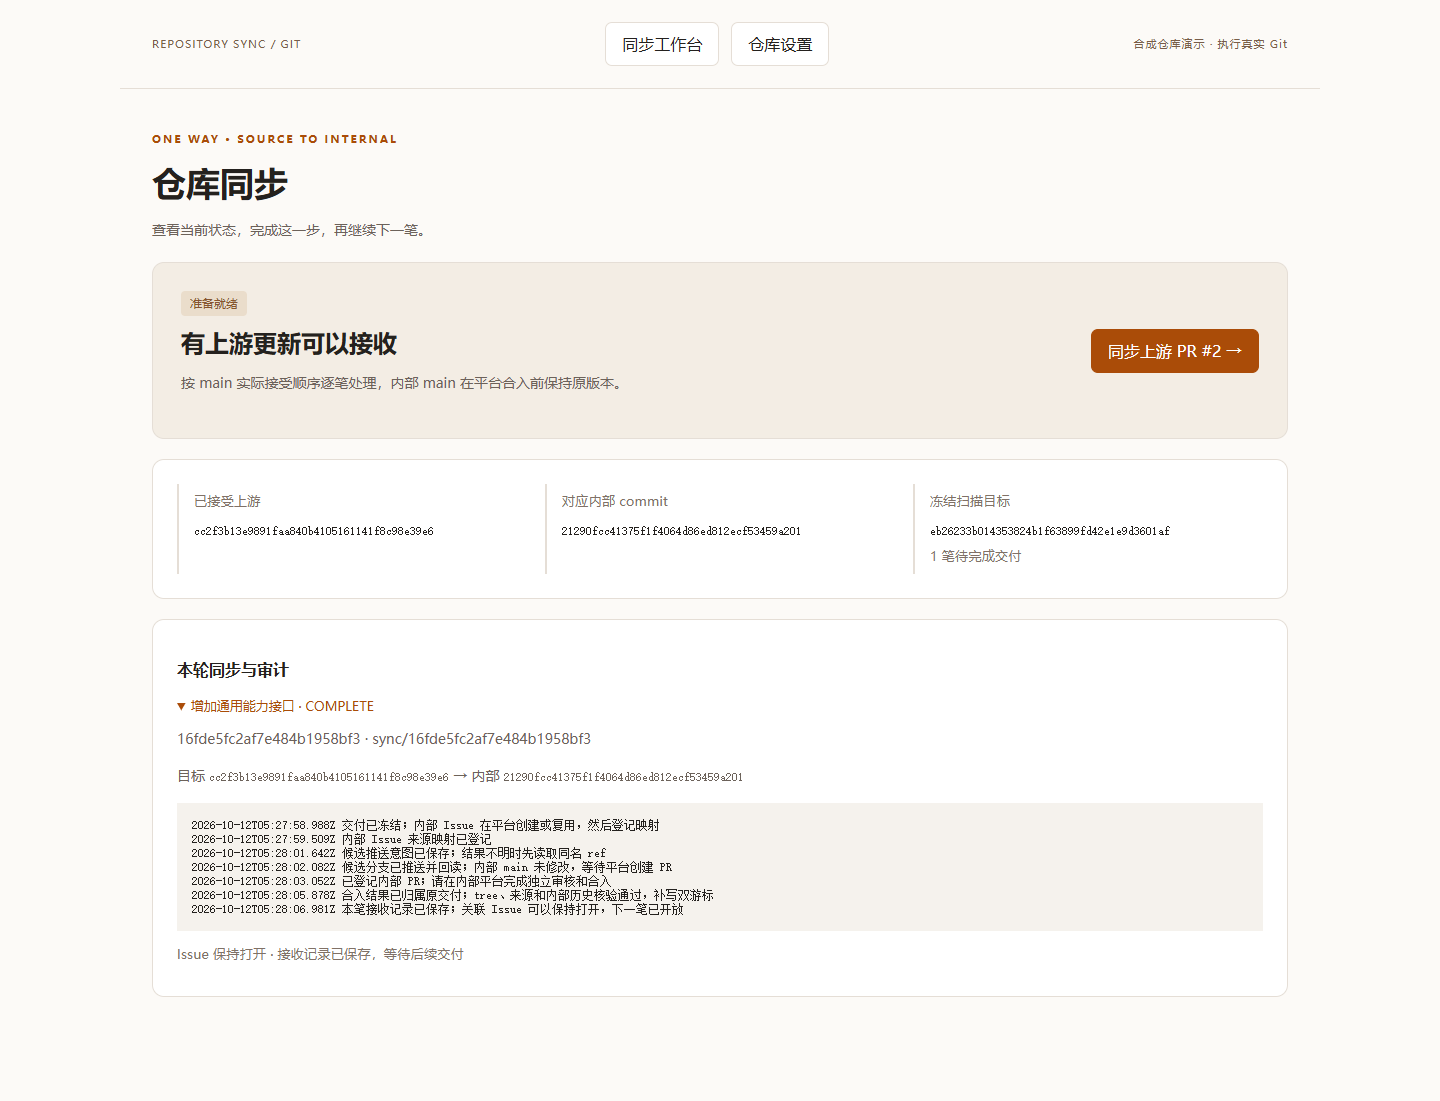
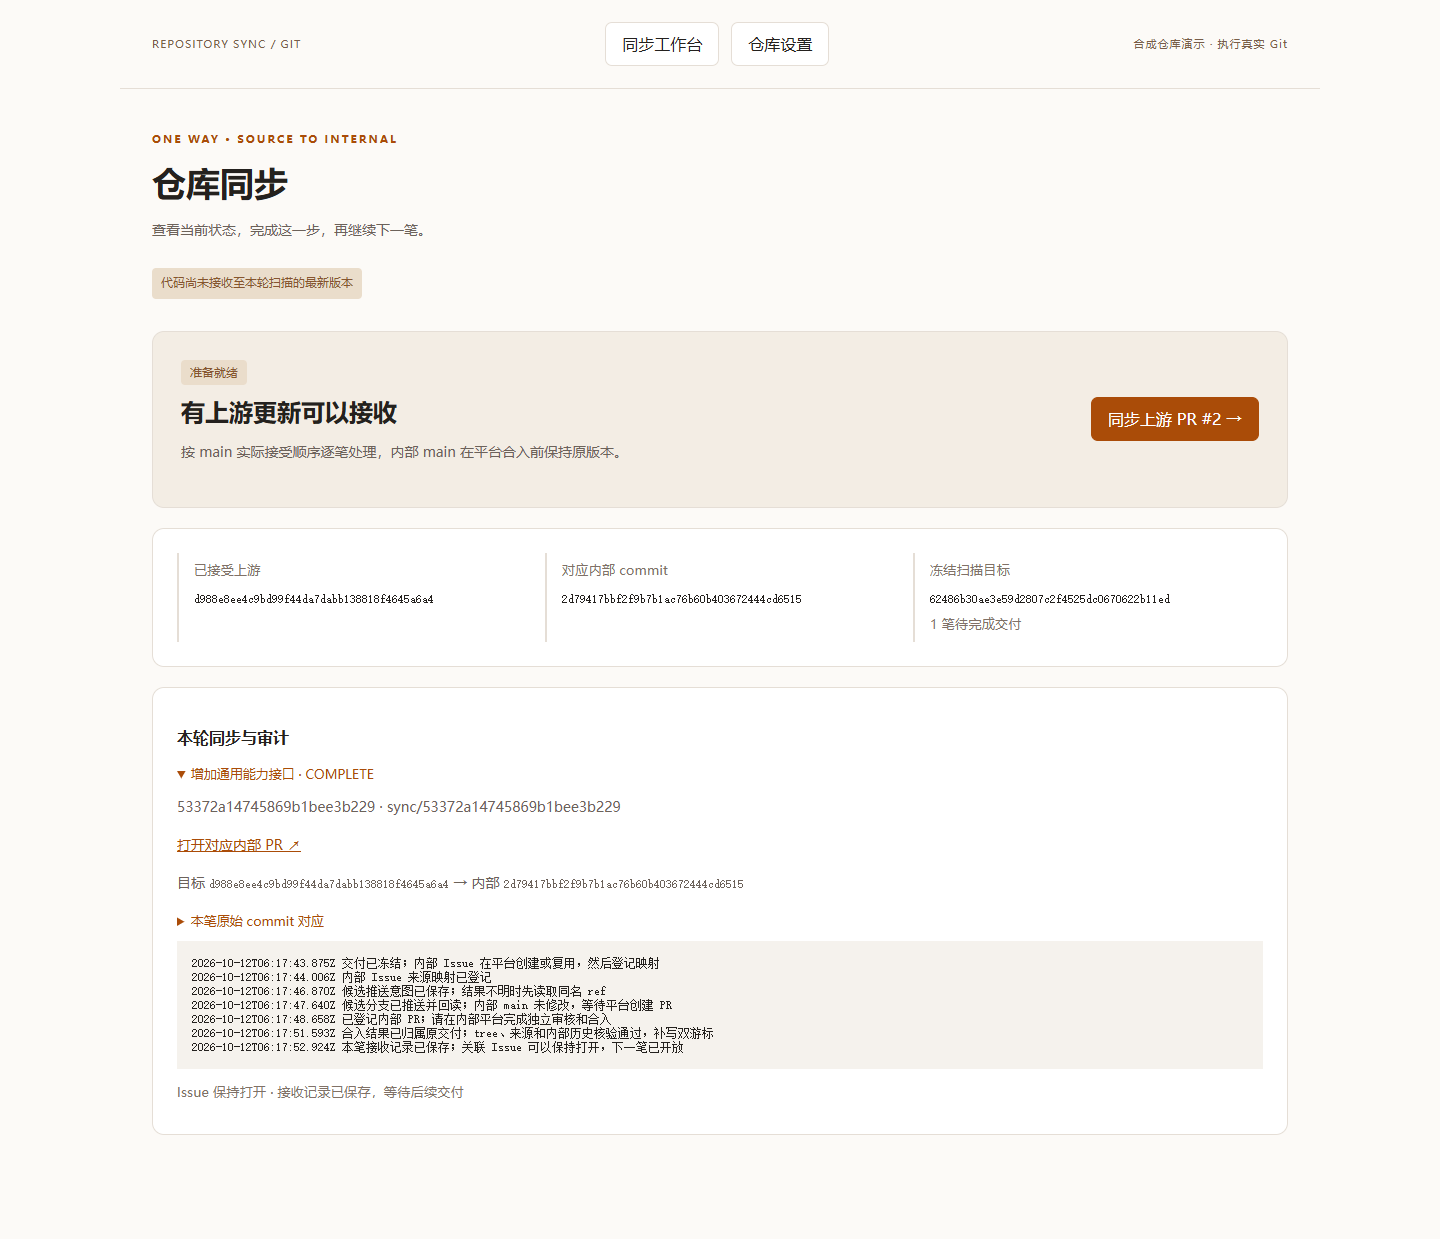
docs(repo-sync): record final validation and synthetic evidence

diff --git a/packages/repo-sync/VALIDATION.md b/packages/repo-sync/VALIDATION.md
@@ -34,6 +34,8 @@ created: 2026-10-12
 - 私有 ref 补充检查：同一 U1/U2 旅程通过，候选 SHA 与 delivery ref 一致。
 - capability-tips 定向检查通过，保留仓库原有的 17 条引用警告。
 
+Fallback 机械扫描以 `upstream/main` 为基线：net +167，26 个文件达到逐文件阈值。逐项核对后，命中主要是布尔条件、可选演示参数、初次安装默认值和显式错误处理；真实台账损坏、来源不明、图核验失败均暂停，没有改为默认成功。界面从同一 active delivery/接受游标投影，没有增加并行进度游标；库与 HTTP 层错误标签不同，但没有通过下一条写路径绕过失败。
+
 ## RED 与检查修正
 
 共享 Issue 原先会在 U1 关闭，合入中断场景原先缺失；行为测试先失败，修复后通过。分支竞争测试发现普通推送可能更新同名 ref，条件创建后拒绝；未发生推送时原先停留在结果不明，修复后可重试；有效 JSON 缺少游标原先被读入，修复后拒绝且保留原文件。
